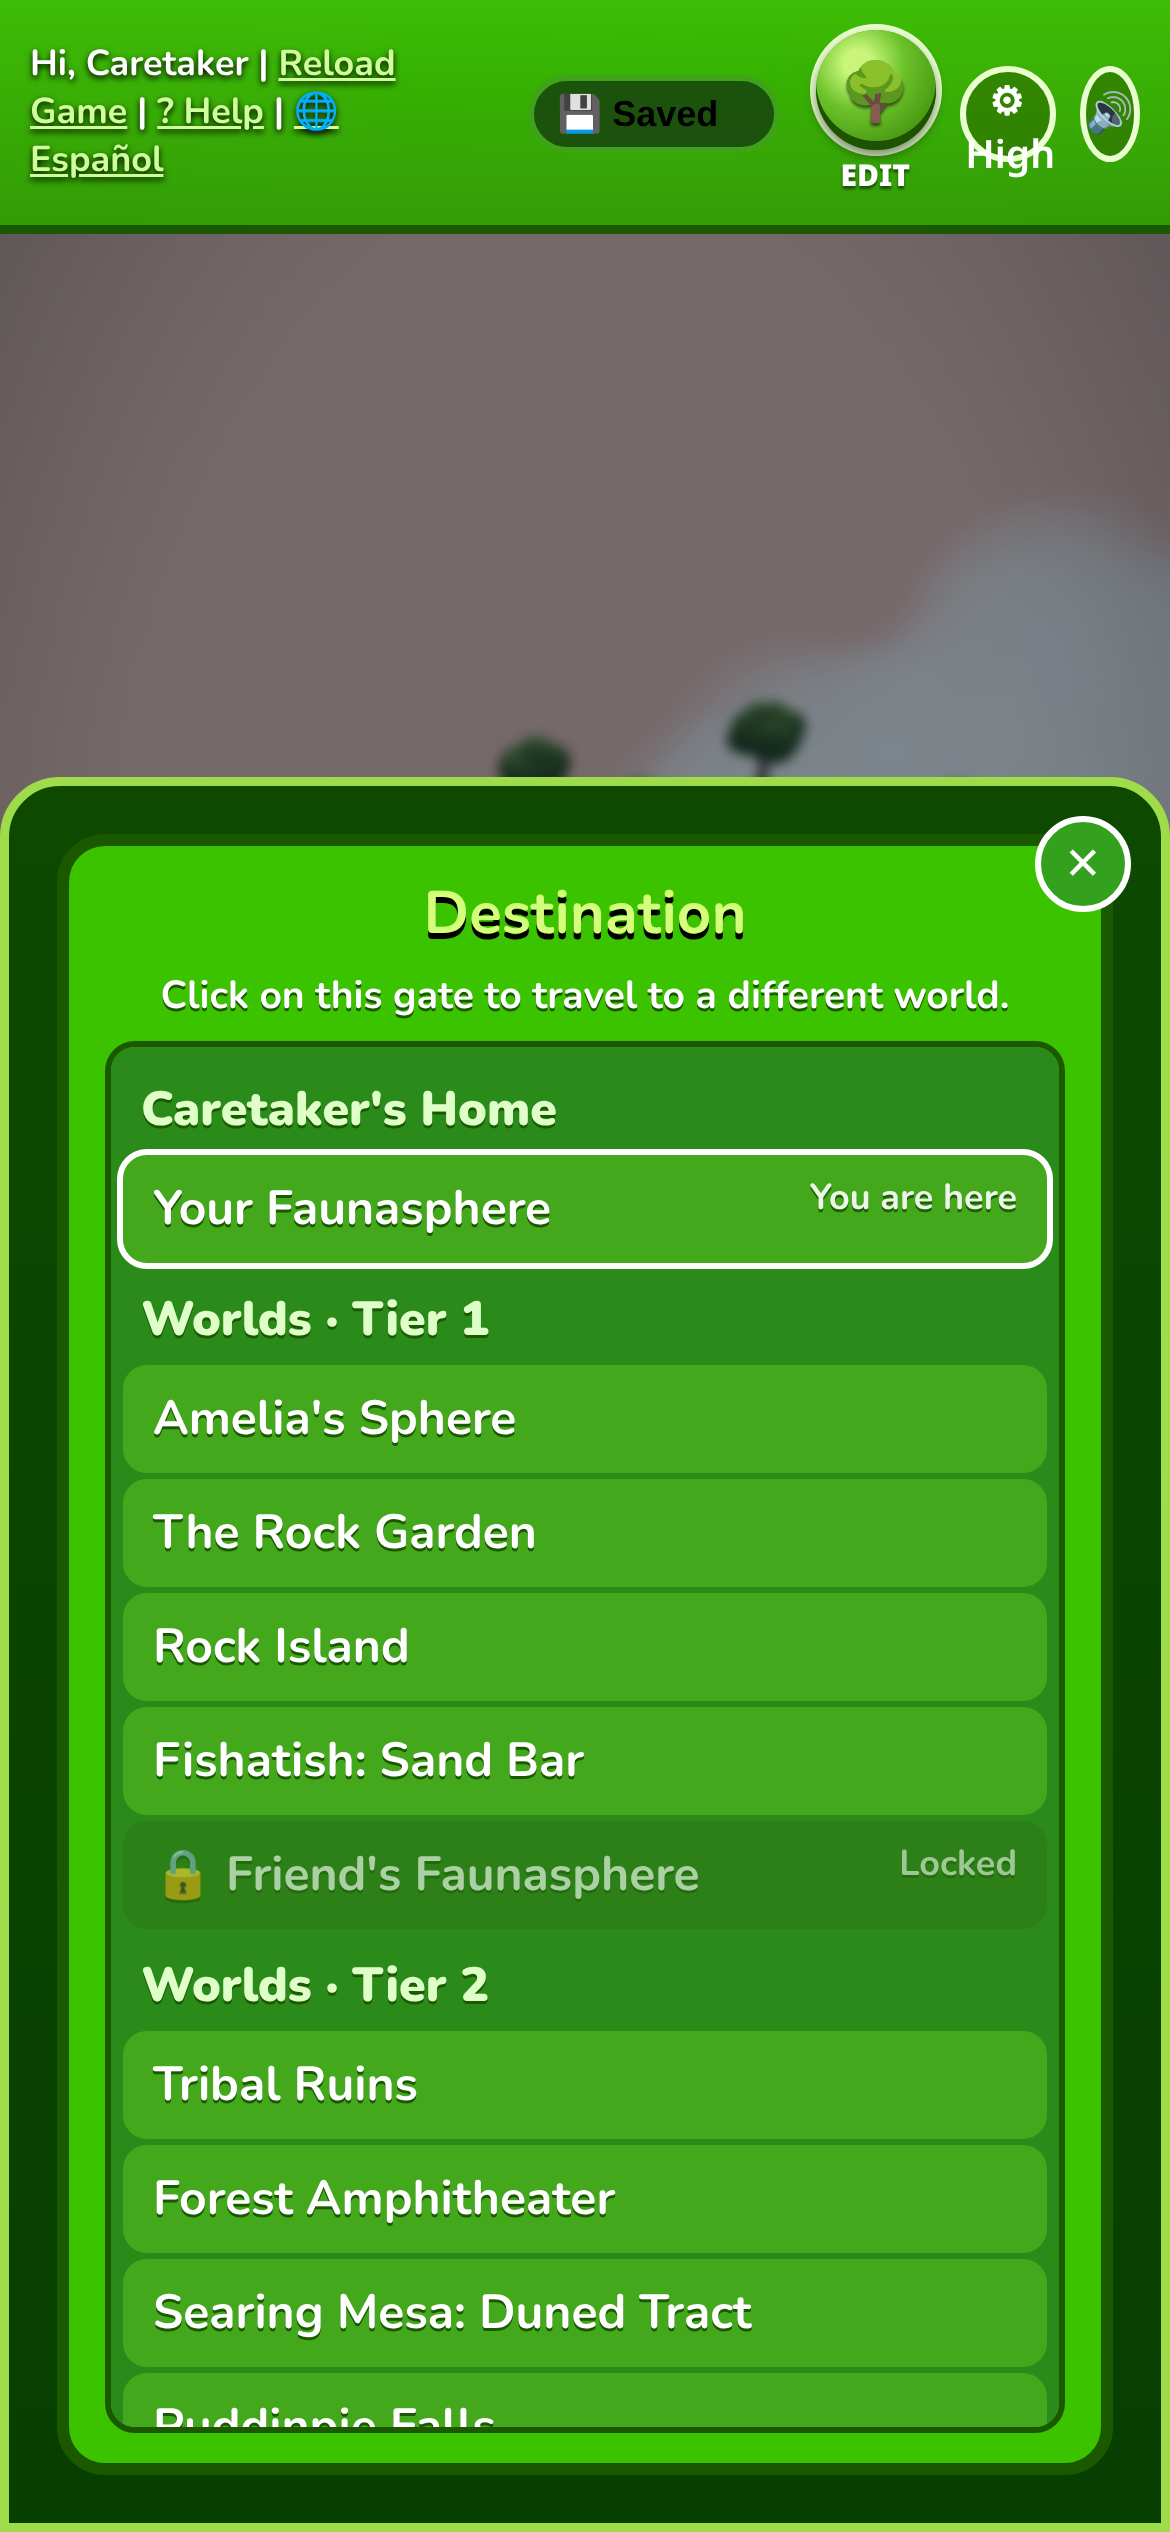
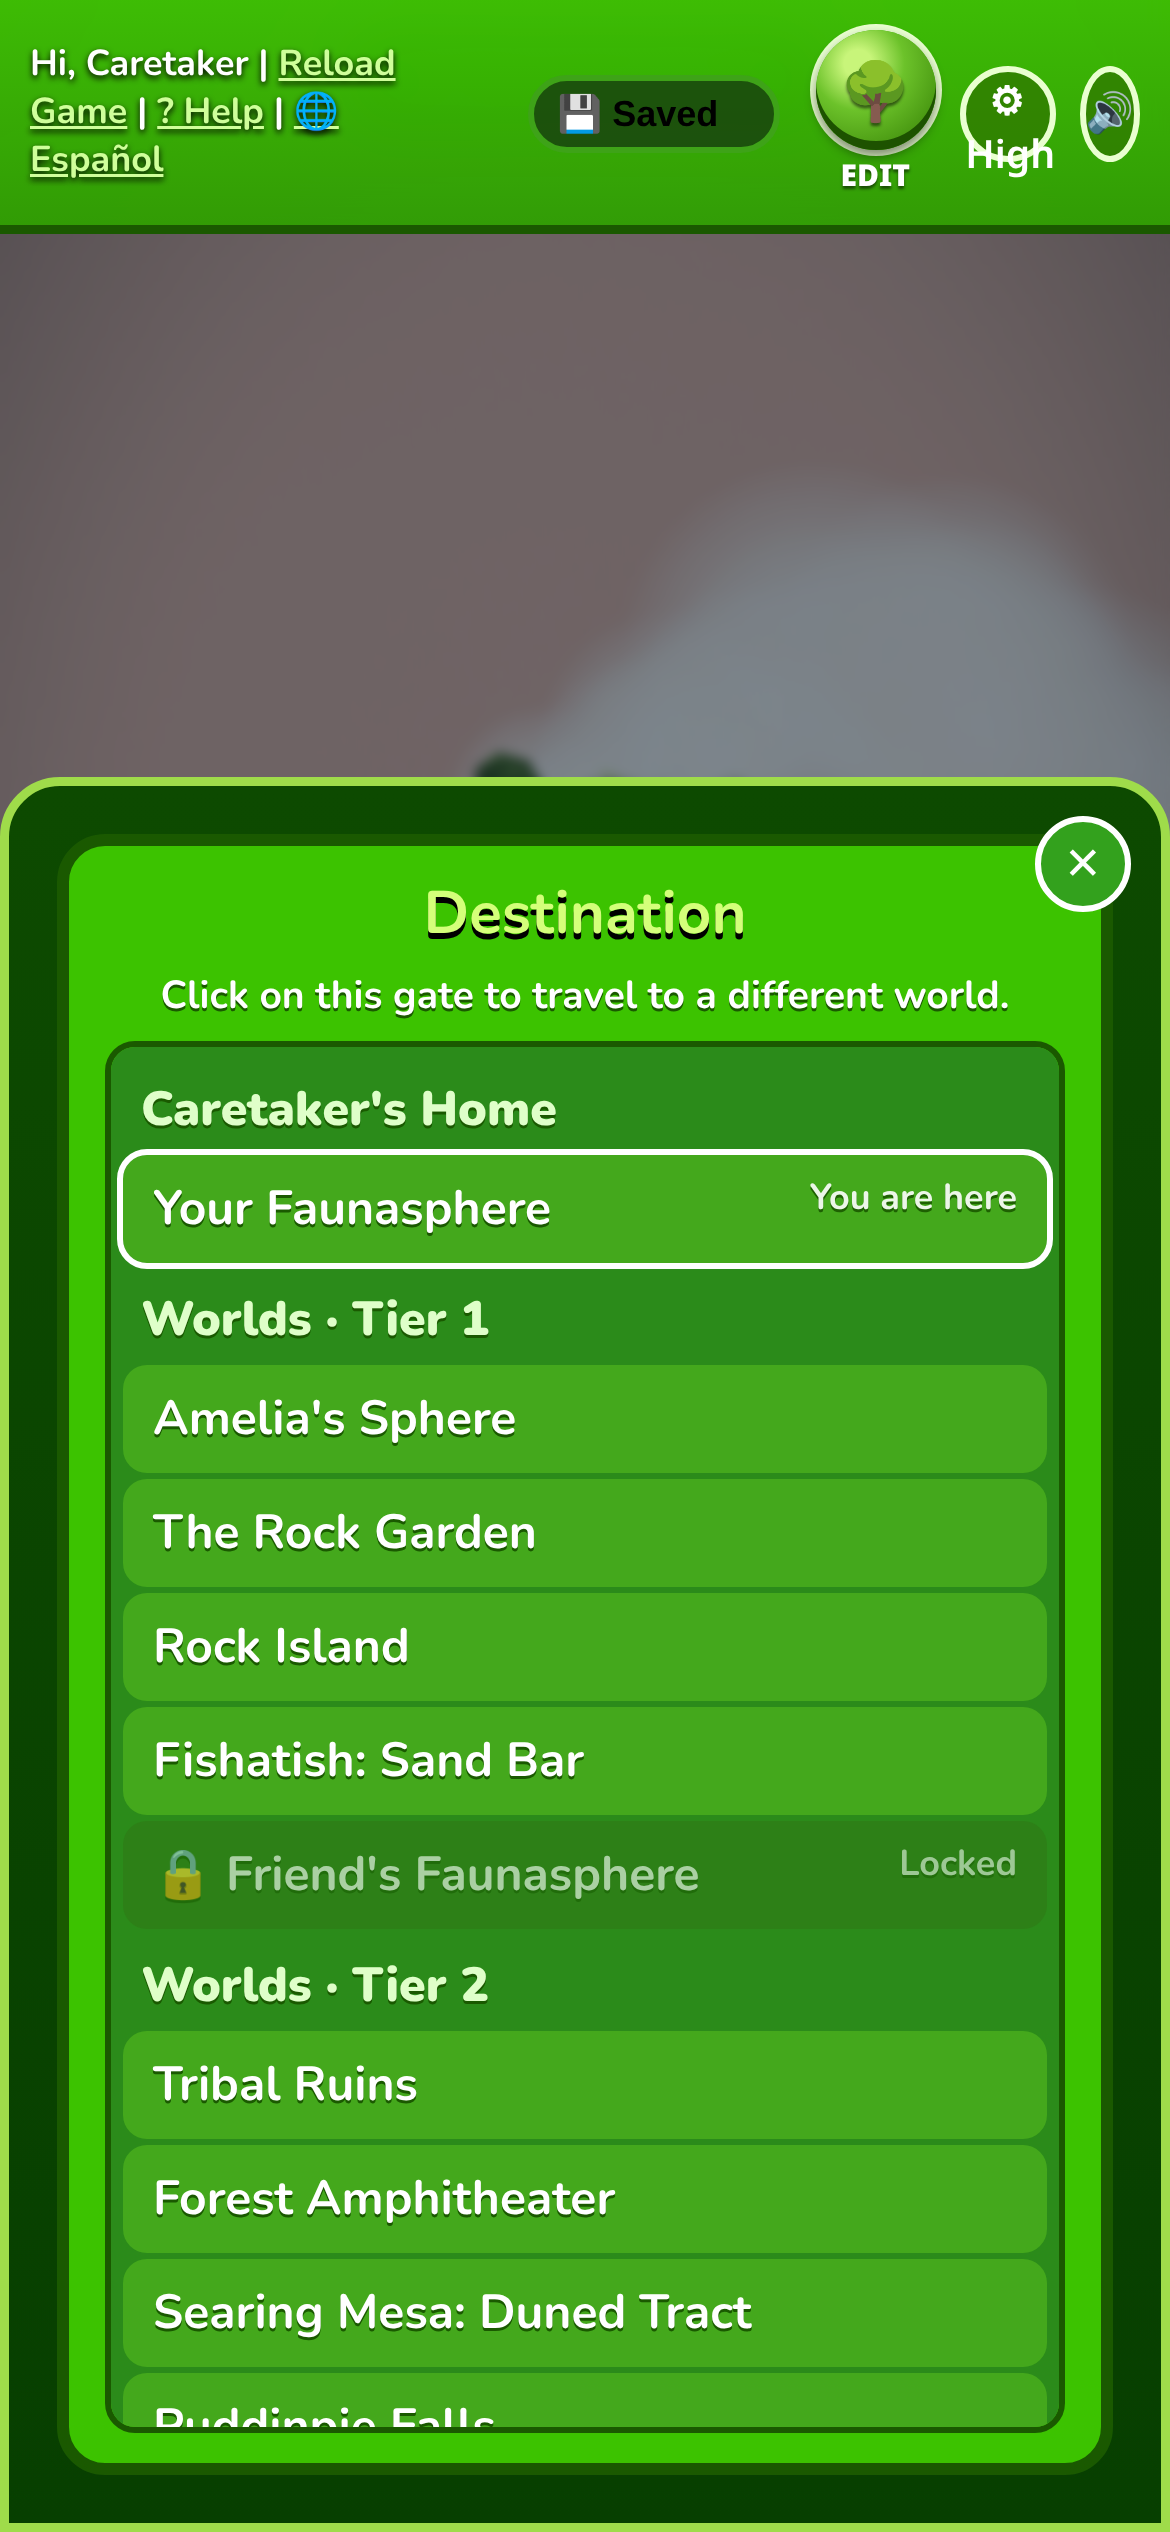
v6.8: High graphics default + feet-on-ground over hills; sw fs-v68-1

Changed region(s): [[0.4, 0.2184, 0.8, 0.312], [0.9231, 0.2184, 1.0, 0.2496]]

diff --git a/gl.js b/gl.js
@@ -11,8 +11,10 @@ const G=window, QS=new URLSearchParams(location.search);
 const isPhone=matchMedia('(pointer:coarse)').matches||innerWidth<700;
 let Q=QS.get('q')||localStorage.getItem('fs_q')||(isPhone?'med':'high');if(!['low','med','high'].includes(Q))Q='med';
 // v6 graphics High/Low (localStorage fs_gfx6; not part of the save). Auto: Low on slow phones.
-const GFX=(()=>{let g=QS.get('gfx')||localStorage.getItem('fs_gfx6');if(g!=='high'&&g!=='low'){const hc=navigator.hardwareConcurrency||8,dm=navigator.deviceMemory||8;g=(hc<=4||dm<=3)?'low':'high';localStorage.setItem('fs_gfx6',g);localStorage.setItem('fs_gfx6_auto','1')}return g})();
-if(GFX==='low')Q='low';else if(Q==='low'&&!QS.get('q'))Q=isPhone?'med':'high';
+const GFX=(()=>{let g=QS.get('gfx');if(g==='high'||g==='low')return g;g=localStorage.getItem('fs_gfx6');
+ // v6.8: High is the default everywhere; Low only if the player explicitly chose it with the gear button (auto-Low is ignored)
+ if(g!=='low'||localStorage.getItem('fs_gfx6_auto')==='1'){g='high';localStorage.setItem('fs_gfx6','high');localStorage.removeItem('fs_gfx6_auto')}return g})();
+if(GFX==='low')Q='low';else if(!QS.get('q'))Q='high';
 const REAL=G.REAL=false;G.W7=GFX==='high'&&!QS.has('now7')&&localStorage.getItem('fs_w7')!=='0'; // v6.2 refined world (High graphics only)
  // v6 world look reverted (Leo); High/Low only changes quality
 const QP={low:{pr:1,shadow:0,grass:900,bloom:0,post:0,tex:128,weather:120},med:{pr:1.5,shadow:1024,grass:2600,bloom:1,post:0,tex:256,weather:220},high:{pr:2,shadow:2048,grass:6000,bloom:1,post:1,tex:512,weather:380}}[Q];
@@ -118,6 +120,11 @@ const HGT=(x,z)=>{if(!HMAP)return 0;const fi=x+C0,fj=z+C0,i0=Math.floor(fi),j0=M
  // terraces: snap within the inner 70% of a tile, ramp across tile edges
  const sm=t=>t<.1?0:t>.9?1:(t-.1)/.8;const U2=sm(u),V2=sm(v);return(a*(1-U2)+b*U2)*(1-V2)+(c*(1-U2)+d*U2)*V2};
 G.HGT=HGT;G.HT=HT;
+// v6.8: feet on the ground. GND = highest tile top under a small footprint (rises before a terrace edge, so no clipping into cliff faces).
+const GND=(x,z)=>{if(!HMAP)return 0;let m=0;for(const a of[-.22,.22])for(const b of[-.22,.22])m=Math.max(m,HT(Math.round(x+C0+a),Math.round(z+C0+b)));return m};
+function settle(o3,x,z,base){const u=o3.userData,t=GND(x,z)+(base||0);if(u.gy==null||Math.abs(u.gy-t)>3)u.gy=t;else if(t>=u.gy)u.gy+=(t-u.gy)*.6,u.gy=Math.max(u.gy,t-.04);else u.gy+=(t-u.gy)*.18;o3.position.y=u.gy;
+ if(HMAP){const yw=o3.rotation.y,dx=Math.sin(yw)*.45,dz=Math.cos(yw)*.45;const sl=HGT(x+dx,z+dz)-HGT(x-dx,z-dz);const lean=Math.max(-.32,Math.min(.32,-sl*.45));if(o3.rotation.order!=='YXZ')o3.rotation.order='YXZ';o3.rotation.x+=(lean-o3.rotation.x)*.12}else if(o3.rotation.x)o3.rotation.x*=.85}
+G.GND=GND;
 const W2=(i,j)=>new THREE.Vector3(i-C0,HGT(i-C0,j-C0),j-C0);
 function buildIsland(zid){scene.remove(island);island.traverse(o=>{if(o.geometry)o.geometry.dispose()});island=new THREE.Group();scene.add(island);
  const z=Z(zid),s=zs(zid),pal=(window.ZPAL&&ZPAL[zid])||BIOMES[z.biome],n=z.n;N0=n;C0=(n-1)/2;const tiles=[];for(let i=0;i<n;i++)for(let j=0;j<n;j++)if(s.tiles[i][j])tiles.push([i,j]);
@@ -392,7 +399,7 @@ function roamFrame(t){try{const on=typeof S!=='undefined'&&S.zone==='home'&&S.fa
  for(const[f,i]of want){let e=roam.get(i);const k=JSON.stringify(f.genes)+(f.level|0);if(!e||e.k!==k){if(e)scene.remove(e.f);const g=buildFauna({...f.genes,_lv:f.level||1});g.traverse(m=>{m.userData.roam=i});scene.add(g);e={f:g,k,pos:null,tgt:null,wait:t+Math.random()*3,emo:null,emoT:0};roam.set(i,e);
    const s=zs('home'),n=s.tiles.length;for(let q=0;q<20&&!e.pos;q++){const a=(Math.random()*n)|0,b=(Math.random()*n)|0;if(s.tiles[a]&&s.tiles[a][b]&&!s.objs.some(o=>o.i===a&&o.j===b))e.pos=W2(a,b)}e.pos=e.pos||W2(C0,C0)}
   let walk=false;if(t>e.wait){if(!e.tgt)roamPick(e);if(e.tgt){RV.copy(e.tgt).sub(e.pos);const d=RV.length();if(d<.05){e.tgt=null;e.wait=t+2+Math.random()*5;if(Math.random()<.35){e.emo=EMO[(Math.random()*EMO.length)|0];e.emoT=t}}else{RV.multiplyScalar(Math.min(d,.018)/d);e.pos.add(RV);walk=true;const yaw=Math.atan2(RV.x,RV.z);let dd=yaw-e.f.rotation.y;dd=Math.atan2(Math.sin(dd),Math.cos(dd));e.f.rotation.y+=dd*.2}}}
-  e.f.position.copy(e.pos);animFauna(e.f,t,{walk,zap:0,happy:false,sleep:false,trick:null})}}catch(err){}}
+  e.f.position.copy(e.pos);settle(e.f,e.pos.x,e.pos.z);animFauna(e.f,t,{walk,zap:0,happy:false,sleep:false,trick:null})}}catch(err){}}
 function roamOverlay(proj,t){for(const[i,e]of roam){if(!e.emo||t-e.emoT>2.5)continue;const[x,y]=proj(e.f.position.clone().add(new THREE.Vector3(0,1.1,0)));ctx2.font='20px sans-serif';ctx2.textAlign='center';ctx2.fillText(e.emo,x,y-(t-e.emoT)*8);ctx2.textAlign='left'}}
 G.roamHit=(px,py)=>{if(!roam.size)return null;setRay(px,py);const ms=[];for(const[,e]of roam)e.f.traverse(m=>{if(m.isMesh)ms.push(m)});const r=ray.intersectObjects(ms,false);return r.length?r[0].object.userData.roam:null};
 // ---------- v5 multiplayer: remote fauna ----------
@@ -400,7 +407,7 @@ const remote=new Map();
 function remoteFrame(t){const NM=window.NetMP;const want=NM?NM.visiblePeers():[];const ids=new Set(want.map(p=>p.id));
  for(const[id,e]of remote)if(!ids.has(id)){scene.remove(e.f);remote.delete(id)}
  for(const p of want){let e=remote.get(p.id);const k=JSON.stringify(p.genes)+(p.level>=20?'g':'');if(!e||e.k!==k){if(e)scene.remove(e.f);const f=buildFauna({...p.genes,_lv:p.level||1});scene.add(f);e={f,k,pos:W2(p.i,p.j)};remote.set(p.id,e)}
-  const tgt=W2(p.i,p.j),mv=tgt.clone().sub(e.pos);e.pos.lerp(tgt,.12);e.f.position.copy(e.pos);if(mv.lengthSq()>1e-4){const yaw=Math.atan2(mv.x,mv.z);let d=yaw-e.f.rotation.y;d=Math.atan2(Math.sin(d),Math.cos(d));e.f.rotation.y+=d*.2}
+  const tgt=W2(p.i,p.j),mv=tgt.clone().sub(e.pos);e.pos.lerp(tgt,.12);e.f.position.copy(e.pos);settle(e.f,e.pos.x,e.pos.z);if(mv.lengthSq()>1e-4){const yaw=Math.atan2(mv.x,mv.z);let d=yaw-e.f.rotation.y;d=Math.atan2(Math.sin(d),Math.cos(d));e.f.rotation.y+=d*.2}
   animFauna(e.f,t,{walk:mv.lengthSq()>4e-4,zap:0,happy:false,sleep:!!p.sleep,trick:p.trick||null})}}
 function remoteOverlay(proj){for(const[id,e]of remote){const p=window.NetMP&&NetMP.peers.get(id);if(!p)continue;const[x,y]=proj(e.f.position.clone().add(new THREE.Vector3(0,1.15,0)));
   ctx2.font='bold 13px "Trebuchet MS",sans-serif';const nm=p.name+' & '+p.fname;const w=ctx2.measureText(nm).width+12;ctx2.fillStyle='rgba(23,60,15,.85)';ctx2.beginPath();ctx2.roundRect(x-w/2,y-9,w,18,9);ctx2.fill();ctx2.fillStyle='#bfff8a';ctx2.fillText(nm,x,y+4);
@@ -451,7 +458,7 @@ function syncObjs(){const s=zs(S.zone),seen=new Set();
    const hit=mesh(BOX,new THREE.MeshBasicMaterial({transparent:true,opacity:0,depthWrite:false,colorWrite:false}),[.8,1.1,.8],[0,.55,0]);hit.userData.obj=o;g.add(hit);if(Q!=='low'&&o.type!=='gate'){const ao=new THREE.Mesh(AOG,AOM);ao.rotation.x=-Math.PI/2;ao.position.y=.012;ao.renderOrder=-1;g.add(ao)}
    if(isClickable(o)){const r=new THREE.Mesh(clickRingG,clickRingM);r.rotation.x=-Math.PI/2;r.position.y=.02;r.visible=false;g.add(r);g.userData.ring=r;const sk=Object.entries(SKILLS).find(([k,v])=>v.node===o.type);if(sk){r.material=clickRingM.clone();g.userData.nodeSkill=sk[0]}}
    g.position.copy(W2(o.i,o.j));scene.add(g);e={g,key,o,hit};objMap.set(o.id,e)}
-  e.o=o;e.hit.userData.obj=o;const tp=W2(o.i,o.j);e.g.position.lerp(tp,.12)}
+  e.o=o;e.hit.userData.obj=o;const tp=W2(o.i,o.j);e.g.position.lerp(tp,.12);if(o.type==='tox'&&HMAP){const py=e.g.position.y;settle(e.g,e.g.position.x,e.g.position.z);if(e.g.userData.blob)e.g.position.y=py}}
  for(const[id,e]of objMap)if(!seen.has(id)){scene.remove(e.g);objMap.delete(id)}}
 function clearObjs(){for(const[,e]of objMap)scene.remove(e.g);objMap.clear()}
 
@@ -519,7 +526,7 @@ function frame(){const tn=performance.now(),dt=Math.min(.1,(tn-lastT)/1000);last
  syncObjs();
  // fauna
  const lvB=f.level>=20?4:f.level>=15?3:f.level>=10?2:f.level>=5?1:0,key=JSON.stringify(f.genes)+lvB;if(key!==faunaKey){if(fauna)scene.remove(fauna);fauna=buildFauna({...f.genes,_lv:f.level,_hd:1});scene.add(fauna);faunaKey=key}
- const want=W2(rt.pos.i,rt.pos.j);const mv=want.clone().sub(fpos);fpos.lerp(want,.5);fpos.y=HGT(fpos.x,fpos.z);fauna.position.copy(fpos);
+ const want=W2(rt.pos.i,rt.pos.j);const mv=want.clone().sub(fpos);fpos.lerp(want,.5);fauna.position.copy(fpos);settle(fauna,fpos.x,fpos.z);fpos.y=fauna.position.y;
  if(mv.lengthSq()>1e-6&&rt.tgt){const yaw=Math.atan2(mv.x,mv.z);let d=yaw-fauna.rotation.y;d=Math.atan2(Math.sin(d),Math.cos(d));fauna.rotation.y+=d*.18}
  const zapA=clamp(1-(now()-(rt.zapT||0))/260,0,1);
  if(zapA>0&&rt.tgtObj&&!rt.tgt){const tp=W2(rt.tgtObj.i,rt.tgtObj.j);const d=tp.clone().sub(fpos);const yaw=Math.atan2(d.x,d.z);let dd=yaw-fauna.rotation.y;dd=Math.atan2(Math.sin(dd),Math.cos(dd));fauna.rotation.y+=dd*.3}
@@ -537,7 +544,7 @@ function frame(){const tn=performance.now(),dt=Math.min(.1,(tn-lastT)/1000);last
  for(const[,e]of objMap){const o=e.o,g=e.g,u=g.userData;objVisualState(o);
   if(u.ring){const near=Math.hypot(o.i-rt.pos.i,o.j-rt.pos.j)<2.2,hov=rt.hover&&rt.hover[0]===o.i&&rt.hover[1]===o.j;u.ring.visible=near||hov;if(u.ring.visible){u.ring.scale.setScalar(1+Math.sin(t*4)*.05);if(u.nodeSkill)u.ring.material.emissive.set(o.ready&&SPECIES[f.genes.species].skill===u.nodeSkill?0x8bff4a:0xff3a2a)}}
   if(u.pulse)u.pulse.emissiveIntensity=1.6+Math.sin(t*3+o.i)*.8;
-  if(u.blob){const b0=u.b0||(u.b0=u.blob.scale.clone());const hp=o.type==='poll'?.6+.4*Math.min(1,(o.hp||1)/3):1;u.blob.scale.set(b0.x*hp*(1+Math.sin(t*4+o.j)*.06),b0.y*hp*(1-Math.sin(t*4+o.j)*.08),b0.z*hp);if(o.type==='tox'){g.position.y=HT(o.i,o.j)+Math.abs(Math.sin(t*3+o.i))*.05;const d=fpos.clone().sub(g.position);g.rotation.y=Math.atan2(d.x,d.z)}}
+  if(u.blob){const b0=u.b0||(u.b0=u.blob.scale.clone());const hp=o.type==='poll'?.6+.4*Math.min(1,(o.hp||1)/3):1;u.blob.scale.set(b0.x*hp*(1+Math.sin(t*4+o.j)*.06),b0.y*hp*(1-Math.sin(t*4+o.j)*.08),b0.z*hp);if(o.type==='tox'){g.position.y=(u.gy!=null?u.gy:HT(o.i,o.j))+Math.abs(Math.sin(t*3+o.i))*.05;const d=fpos.clone().sub(g.position);g.rotation.y=Math.atan2(d.x,d.z)}}
   if(u.spin){u.spin.rotation.y=t*1.5;u.spin.position.y=.9+Math.sin(t*2)*.05;(u.spin.material||u.spin.children[0].material).emissiveIntensity=o.alert?3.5+Math.sin(t*8):2}
   if(u.flame)u.flame.scale.set(1+Math.sin(t*20)*.1,1+Math.sin(t*13)*.2,1);
   if(u.egg)u.egg.visible=!!o.egg;if(u.treats)u.treats.forEach((m,k)=>m.visible=k<(o.count||0));if(u.eyes)u.eyes.emissiveIntensity=o.ready?3:.2;
@@ -658,6 +665,7 @@ B.tox=o=>{const g=t0(o);try{g.children.slice().forEach(c=>{if(c!==g.userData.blo
  const n=o.boss?9:((o.v||hsh(o.i,o.j,3)*3|0)%3===2?4:2),b=g.userData.blob;for(let k=0;k<n;k++){const row=n===9?Math.floor(k/3):n===4?Math.floor(k/2):0,cols=n===9?3:2,col=k%cols,x=(col-(cols-1)/2)*.32,y=.1+row*.28-(n===9?.28:n===4?.14:0),s=n===9?.16:.24;
   const e=new THREE.Group();e.position.set(x,y,Math.sqrt(Math.max(.05,1-x*x-y*y))*.97);e.add(mesh(SPHL,EW,[s,s,s*.5]));e.add(mesh(SPHL,EG,[s*.62,s*.62,s*.3],[0,0,s*.3]));e.add(mesh(SPHL,EK,[s*.28,s*.28,s*.15],[0,0,s*.45]));b.add(e)}
  if(n>=4){const gm=new THREE.MeshBasicMaterial({color:0x8dff5a,transparent:true,opacity:.18,depthWrite:false});for(let k=0;k<3;k++)g.add(mesh(SPHL,gm,[.14,.14,.14],[Math.sin(k*2.1)*.3,.75+k*.12,Math.cos(k*2.1)*.3]))}}catch(e){}return g}}
+G.GLB=B;G.GLfpos=()=>fpos;G.GLfauna=()=>fauna;
 // v4.13 (notes 26/27): distinct looks for Tusker (elephant), Dasher (deer), Bobbler (T-rex), Waddler (penguin), Flapper (crane), Thumper (kangaroo)
 Object.assign(SP,{
  elephant:{b:[.22,.21,.27],leg:.17,lr:.07,head:.16,neck:[.03,.4],snout:[.04,.06],ears:'side',tail:'thin'},

diff --git a/sw.js b/sw.js
@@ -1,4 +1,4 @@
-const C='fs-v662-w7fog',F=['./','world7.js','tex/cliff.jpg','index.html','style.css','data.js','audio.js','art.js','enemydmg.js','game.js','save.js','fshooks.js','zonepal.js','mech.js','content6.js','fun.js','content7.js','unlock.js','content8.js','content9.js','content10.js','content11.js','content12.js','content13.js','content14.js','content15.js','content16.js','content17.js','content18.js','content19.js','content20.js','content21.js','content22.js','content23.js','savedb.js','v5.js','net.js','tricks2.js','gift.js','toonfauna.js','faint.js','rarity.js','fauna2.js','safety.js','i18n.js','i18n_es.js','vendor/peerjs.min.js','gl.js','vendor/three/three.module.min.js','manifest.json','icon.svg','icon-192.png','icon-512.png','icon-maskable-512.png','apple-touch-icon.png'];
+const C='fs-v68-1',F=['./','world7.js','tex/cliff.jpg','index.html','style.css','data.js','audio.js','art.js','enemydmg.js','game.js','save.js','fshooks.js','zonepal.js','mech.js','content6.js','fun.js','content7.js','unlock.js','content8.js','content9.js','content10.js','content11.js','content12.js','content13.js','content14.js','content15.js','content16.js','content17.js','content18.js','content19.js','content20.js','content21.js','content22.js','content23.js','savedb.js','v5.js','net.js','tricks2.js','gift.js','toonfauna.js','faint.js','rarity.js','fauna2.js','safety.js','i18n.js','i18n_es.js','vendor/peerjs.min.js','gl.js','vendor/three/three.module.min.js','manifest.json','icon.svg','icon-192.png','icon-512.png','icon-maskable-512.png','apple-touch-icon.png'];
 self.addEventListener('install',e=>{self.skipWaiting();e.waitUntil(caches.open(C).then(c=>c.addAll(F)).catch(()=>{}))});
 self.addEventListener('activate',e=>e.waitUntil(caches.keys().then(k=>Promise.all(k.filter(x=>x!==C).map(x=>caches.delete(x)))).then(()=>self.clients.claim())));
 // network-first so deploys show up immediately; cache fallback offline

diff --git a/index.html b/index.html
@@ -36,6 +36,7 @@
 <script src="content21.js"></script>
 <script src="content22.js"></script>
 <script src="content23.js"></script>
+
 <script src="unlock.js"></script><script src="vendor/peerjs.min.js"></script><script src="vendor/nostr.bundle.js"></script><script src="net.js"></script><script src="safety.js"></script><script src="tricks2.js"></script><script src="gift.js"></script><script src="toonfauna.js"></script><script src="faint.js"></script><script src="rarity.js"></script>
 <script type="importmap">{"imports":{"three":"./vendor/three/three.module.min.js"}}</script>
 <script type="module" src="gl.js"></script><script>(function(){const tips=["Take a luxurious spa vacation in the magical mud of the Rejuvenating Marsh. Relax, restore, and turn mud into beauty!","Earning Lux fills your Egg Meter. Fill it up to level up and lay an egg!","Each species has its own gathering ability. Hoofers kick trees, Sniffers lift rocks, Scooters dive.","Ripe things glow green. Red means not yet, or not for this fauna.","Your zapper collar glows brighter as your fauna levels up."],st=["Signing in…","Loading resources…","Processing resources…","Waiting for world…"];const t=document.getElementById('ltip');if(t)t.textContent='Tip: '+tips[Math.floor(Math.random()*tips.length)];let k=0;const iv=setInterval(()=>{const s=document.getElementById('lstat'),p=document.getElementById('lprog');if(!s){clearInterval(iv);return}k++;s.textContent=st[Math.min(3,k>>1)];p.style.width=Math.min(95,k*12)+'%'},250)})()</script>

diff --git a/RELEASES.md b/RELEASES.md
@@ -105,3 +105,6 @@ Screenshots: screenshots/v5_home_mobile.png, v5_travel_mobile.png, v5_destinatio
 ## v6.6 — Hills and terraces
 - Every zone except home has hills and terraces up to ~2.25 high in the same look. Neighbouring tiles differ by at most 0.75 and walking ramps smoothly, so no path is blocked. The gate, vendor, goal and project, plus the island edges, stay flat. Fauna, objects and the camera follow the slope; taps pick the raised tile. world7 grass, trees and decor are lifted onto the hill heights. Heights come from the zone itself, so nothing is added to the save.
 - 2026-10-25 5:48 PM EDT — v6.6.1 hotfix: reliable multiplayer discovery (net.js). Status messages now carry known-peer ids; any one-way link (A sees B, B not A) triggers an immediate re-announce, new peers get an instant reply (symmetric hello), guaranteed 2 s heartbeat (was random), 30 s peer timeout (was 15 s), re-announce burst after every zone change and on join/relay connect, auto-restart if PeerJS and relays both drop. SW cache fs-v661-mp1.
+
+## v6.8 — High graphics by default
+- Every device, phones included, now starts on High graphics; the automatic Low for weaker phones is gone. Low is kept only if the player chose it with the ⚙ button. An old Low setting that was picked automatically becomes High. Saves untouched.
